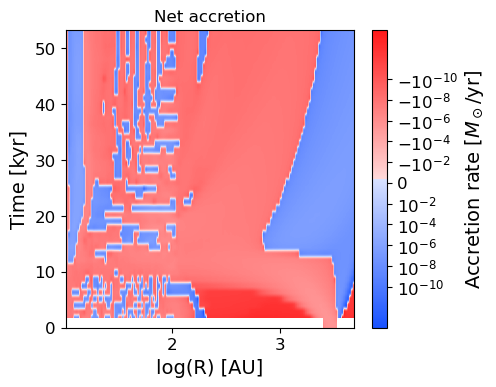
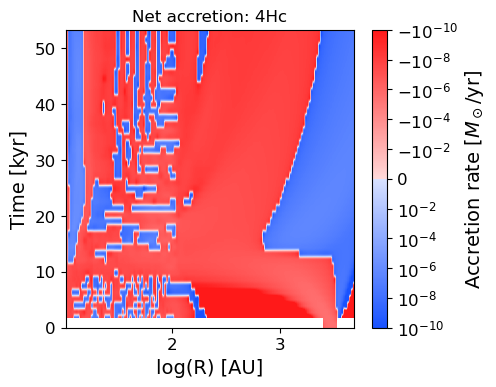
2D accretion flows at diff Hc

diff --git a/accretion.py b/accretion.py
@@ -85,6 +85,7 @@ def calc_accretion(rho, vr, theta, r0, r0_id, phi, max_height, Msun, min_height=
     phi:          1D array of azimuthal angles (shape: nphi)
     max_height:   Maximum height within which we calculate accretion [cm]
     Msun:         Mass of the Sun [g]
+    min_height:   Minimum height beeyond which we calculate accretion [cm]
 
     Outputs:
     -------
@@ -99,12 +100,12 @@ def calc_accretion(rho, vr, theta, r0, r0_id, phi, max_height, Msun, min_height=
     if min_height == None:
         theta_mask = np.abs(z) <= max_height
         theta_sel = theta[theta_mask]
-        print(np.round(np.degrees(theta_sel), 1))
+        # print(np.round(np.degrees(theta_sel), 1))
 
     elif min_height != None:
         theta_mask = (np.abs(z) >= min_height) & (np.abs(z) <= max_height)
         theta_sel = theta[theta_mask]   
-        print(np.round(np.degrees(theta_sel), 1))
+        # print(np.round(np.degrees(theta_sel), 1))
     
     dtheta_sel = np.gradient(theta_sel)
     dphi = np.gradient(phi)
@@ -147,9 +148,9 @@ def calc_accretion_theoretical(sigma, H, ok, alpha):
 def main():
 
 
-    folder = Path("../cloud_disk_it450_retro_rotX45/")                    # Folder with the output files
-    # folder = Path("../fargo3d/outputs/cloud_disk_it450_retro_rotX45")       # Folder with the output files (BinAC2)
-    fig_imgs = Path("cloud_disk_it450_retro_rotX45/imgs/")                  # Folder to save images
+    folder = Path("../cloud_disk_it450_rotX45/")                    # Folder with the output files
+    # folder = Path("../fargo3d/outputs/cloud_disk_it450_rotX45")       # Folder with the output files (BinAC2)
+    fig_imgs = Path("cloud_disk_it450_rotX45/imgs/")                  # Folder to save images
     it = 450                                                             # FARGO snapshot of interest
     sim_name = str(fig_imgs).split('/')[0]                               # Simulation name (for plot labels)
 
@@ -219,16 +220,16 @@ def main():
     dotM_out_allit = np.asarray(dotM_out_allit)
 
     # Plotting the logarithmic mass fluxes 
-    fig, ax = plt.subplots()
-    # plt.plot(allit_years, np.abs(dotM_tot_allit), label="Total flux")
-    plt.plot(allit_years, np.log10(-dotM_in_allit), label="Log Inward flux")
-    plt.plot(allit_years, dotM_out_allit, label="Outward flux")
-    ax.set_xlabel(r"Time [kyr]")
-    ax.set_ylabel(r"$\mathrm{\log\dot{M}}$ [$M_{sun}$/yr]")
-    ax.set_title(fr"{sim_name}: $\mathrm{{\log\dot{{M}}}}$ vs t (R = 10 AU)")
-    plt.legend(loc="lower right")
-    plt.savefig(f'{fig_imgs}/logMdot_vs_t_it{it}.png')
-    plt.show()
+    # fig, ax = plt.subplots()
+    # # plt.plot(allit_years, np.abs(dotM_tot_allit), label="Total flux")
+    # plt.plot(allit_years, np.log10(-dotM_in_allit), label="Log Inward flux")
+    # plt.plot(allit_years, dotM_out_allit, label="Outward flux")
+    # ax.set_xlabel(r"Time [kyr]")
+    # ax.set_ylabel(r"$\mathrm{\log\dot{M}}$ [$M_{sun}$/yr]")
+    # ax.set_title(fr"{sim_name}: $\mathrm{{\log\dot{{M}}}}$ vs t (R = 10 AU)")
+    # plt.legend(loc="lower right")
+    # plt.savefig(f'{fig_imgs}/logMdot_vs_t_it{it}.png')
+    # plt.show()
 
 
     ########################### Check accretion for different max heights #############################
@@ -292,7 +293,7 @@ def main():
     # fig.tight_layout()
     # ax.legend(loc="lower right")   # loc='upper left', 
     # plt.savefig(f'{fig_imgs}/logMoutdot_vs_t_all_zmax.png')
-    plt.show()
+    # plt.show()
 
 
     ################################# Compare theoretical and actual mass accretion ###################################
@@ -697,7 +698,31 @@ def main():
             Mdot_out_2D[i, j] = dotM_out
             Mdot_net_2D[i, j] = dotM_net
 
-    # Plotting heat maps of the 2D accretion values
+
+    # Plotting just the net accretion as a 2D contour plot
+    fig, ax = plt.subplots(1, 1, figsize=(5,4))
+    c3 = ax.imshow(np.sign(Mdot_net_2D) * np.log10(np.abs(Mdot_net_2D)), extent=[np.log10(domains["r"].min()/au), np.log10(domains["r"].max()/au), allit_years.min(), allit_years.max()], origin="lower", cmap=cmaps.BlueRed, aspect='auto', vmin=-10, vmax=10)
+    cbar = fig.colorbar(c3, ax=ax)
+    #Adjusting colorbar tick labels
+    exponents = np.arange(-10, -1, 2)   
+    ticks = np.concatenate([-exponents[::-1], [0], exponents])
+    # print(ticks)
+    ticklabels = (
+        [fr"$-10^{{{exp}}}$" for exp in exponents[::-1]] +
+        ["0"] +
+        [fr"$10^{{{exp}}}$" for exp in exponents]
+    )
+    cbar.set_ticks(ticks)
+    cbar.set_ticklabels(ticklabels)
+    cbar.set_label(r"Accretion rate [$M_\odot/\mathrm{yr}$]")
+    ax.set_title(f"Net accretion: {int(zmax_j/Hc_j)}Hc")
+    ax.set_xlabel("log(R) [AU]")
+    ax.set_ylabel("Time [kyr]")
+    fig.tight_layout()
+    plt.savefig(f'{fig_imgs}/logMnetdot_2D.png', bbox_inches="tight")
+    plt.show()
+
+    # Plotting heat maps of the 2D accretion values for inward, outward and net accretion 
     # fig, (ax1, ax2, ax3) = plt.subplots(3, 1, figsize=(5,7), sharex=True)
 
     # c1 = ax1.imshow(np.log10(-Mdot_in_2D), extent=[np.log10(domains["r"].min()/au), np.log10(domains["r"].max()/au), allit_years.min(), allit_years.max()], origin="lower", cmap=cmaps.matter, aspect='auto', vmin=-17.5, vmax=-5)
@@ -729,27 +754,6 @@ def main():
     # plt.savefig(f'{fig_imgs}/logMdot_2D.png', bbox_inches="tight")
     # plt.show()
 
-    fig, ax = plt.subplots(1, 1, figsize=(5,4))
-    c3 = ax.imshow(np.sign(Mdot_net_2D) * np.log10(np.abs(Mdot_net_2D)), extent=[np.log10(domains["r"].min()/au), np.log10(domains["r"].max()/au), allit_years.min(), allit_years.max()], origin="lower", cmap=cmaps.BlueRed, aspect='auto', vmin=-10, vmax=10)
-    cbar = fig.colorbar(c3, ax=ax)
-    #Adjusting colorbar tick labels
-    exponents = np.arange(-10, -1, 2)   
-    ticks = np.concatenate([-exponents[::-1], [0], exponents])
-    print(ticks)
-    ticklabels = (
-        [fr"$-10^{{{exp}}}$" for exp in exponents[::-1]] +
-        ["0"] +
-        [fr"$10^{{{exp}}}$" for exp in exponents]
-    )
-    cbar.set_ticks(ticks)
-    cbar.set_ticklabels(ticklabels)
-    cbar.set_label(r"Accretion rate [$M_\odot/\mathrm{yr}$]")
-    ax.set_title("Net accretion")
-    ax.set_xlabel("log(R) [AU]")
-    ax.set_ylabel("Time [kyr]")
-    fig.tight_layout()
-    plt.savefig(f'{fig_imgs}/logMnetdot_2D.png', bbox_inches="tight")
-    plt.show()
 
     ####################### Compare Mdot for different no disk inclinations ########################
 

diff --git a/no_thoughts_just_plots.py b/no_thoughts_just_plots.py
@@ -9,6 +9,7 @@ from matplotlib.colors import Normalize
 import xml.etree.ElementTree as ET
 import matplotlib.colors as mcolors
 from scipy.interpolate import griddata
+import colormaps as cmaps
 #from matplotlib.ticker import LinearLocator
 from mpl_toolkits.axes_grid1 import make_axes_locatable
 from scipy.interpolate import RegularGridInterpolator
@@ -53,6 +54,66 @@ def cyl_2D_plot(data, RCYL, ZCYL, irad, iphi, title, colorbarlabel, savefig, fig
     plt.ylim(-1,1)
     plt.title(title)
     plt.colorbar(label = colorbarlabel)
+
+    # Save the figure?
+    if savefig:
+        plt.savefig(figfolder)
+
+    # Display the figure?
+    if showfig:
+        plt.show()
+    else:
+        plt.close()
+
+
+def vel_cyl_2D(vel, RCYL, ZCYL, irad, iphi, title, colorbarlabel, savefig, figfolder, showfig, data_phiavg=True):
+    """
+    Plot 2D vertical projection of a physical quantity at a particular azimuth angle and range of radii
+    
+    Inputs:
+    ------
+    data:            3D array of physical quantity
+    RCYL, ZCYL:      2D mesh of cylindrical coordinates' R and Z values
+    irad:            Index of final radius to be plotted (int)
+    iphi:            Index of azimuth angle to be plotted
+    title:           Plot title (str)
+    colorbarlabel:   Colour bar label
+    savefig:         if True, image is saved (bool)
+    figfolder:       Path where the image is to be saved (path) 
+    data_phiavg:     True if data is azimuthally averaged (bool) (default=True)
+    
+    Outputs:
+    -------
+    plot
+    """
+
+    fig, ax = plt.subplots(1, 1, figsize=(8,6))
+    if data_phiavg:
+        # np.sign(vel[...,:irad]) * np.log10(vel[...,:irad])
+        c3 = plt.pcolormesh(RCYL[..., :irad, iphi]/au, ZCYL[..., :irad, iphi]/RCYL[..., :irad, iphi], vel[...,:irad], cmap=cmaps.BlueRed)#, vmin=-11, vmax=11, rasterized=True)
+    else:
+        # np.sign(vel[...,:irad, iphi]) * np.log10(vel[...,:irad, iphi])
+        c3 = plt.pcolormesh(RCYL[..., :irad, iphi]/au, ZCYL[..., :irad, iphi]/RCYL[..., :irad, iphi], vel[...,:irad, iphi], cmap=cmaps.BlueRed) #, vmin=-11, vmax=11, rasterized=True)
+
+    cbar = fig.colorbar(c3, ax=ax)
+    #Adjusting colorbar tick labels
+    # exponents = np.arange(-10, -1, 2)   
+    # ticks = np.concatenate([-exponents[::-1], [0], exponents])
+    # # print(ticks)
+    # ticklabels = (
+    #     [fr"$-10^{{{exp}}}$" for exp in exponents[::-1]] +
+    #     ["0"] +
+    #     [fr"$10^{{{exp}}}$" for exp in exponents]
+    # )
+    # cbar.set_ticks(ticks)
+    # cbar.set_ticklabels(ticklabels)
+    cbar.set_label(colorbarlabel)
+    plt.xlabel("rcyl / AU")
+    plt.ylabel("z / r")
+    plt.xscale("log")
+    plt.ylim(-1,1)
+    plt.title(title)
+    plt.tight_layout()
 
     # Save the figure?
     if savefig:

diff --git a/analysis.py b/analysis.py
@@ -4,7 +4,7 @@ import numpy as np
 from pathlib import Path
 from read import get_domain_spherical, get_data, load_par_file, get_param_value
 import matplotlib.pyplot as plt
-from no_thoughts_just_plots import quiver_plot_3d, contours_3D, plot_surf_dens, plot_twist_arrows, plot_total_disks_bonanza, cyl_2D_plot, XY_2D_plot, velocity_streamlines, plotly_quiver3D
+from no_thoughts_just_plots import quiver_plot_3d, contours_3D, plot_surf_dens, plot_twist_arrows, plot_total_disks_bonanza, cyl_2D_plot, XY_2D_plot, velocity_streamlines, plotly_quiver3D, vel_cyl_2D
 import astropy.constants as c
 import pandas as pd
 # import pyvista as pv 
@@ -633,7 +633,7 @@ def main():
 
     # 2D visualizations
     # irad = -1
-    irad = np.where(domains["r"]/au < 150)[0][-1]
+    irad = np.where(domains["r"]/au < 1500)[0][-1]
     iphi = 0
     itheta = int(7*len(domains["theta"])/15)
     # print(itheta)
@@ -646,7 +646,11 @@ def main():
     # cyl_2D_plot(rho_phiavg, RCYL, ZCYL, irad, iphi, title=rf'{sim_name}: $\phi$ Averaged Density R-Z Plane', colorbarlabel=r"$\rho (g/cm^{3})$", savefig=True, figfolder=f'{fig_imgs}/dens_phiavg_cyl_phi{iphi}_rad{irad}_it{it}.png', showfig=True, data_phiavg=True)
 
     # Density RZ plot
-    # cyl_2D_plot(rho, RCYL, ZCYL, irad, iphi, title=rf'{sim_name}: Density R-Z Plane $\phi$ = {np.round(np.degrees(domains["phi"][iphi]), 2)}$^{{\circ}}$', colorbarlabel=r"$\rho (g/cm^{3})$", savefig=True, figfolder=f'{fig_imgs}/dens_cyl_phi{iphi}_rad{irad}_it{it}.png', showfig=True, data_phiavg=False)
+    cyl_2D_plot(rho, RCYL, ZCYL, irad, iphi, title=rf'{sim_name}: Density R-Z Plane $\phi$ = {np.round(np.degrees(domains["phi"][iphi]), 2)}$^{{\circ}}$', colorbarlabel=r"$\rho (g/cm^{3})$", savefig=True, figfolder=f'{fig_imgs}/dens_cyl_phi{iphi}_rad{irad}_it{it}.png', showfig=True, data_phiavg=False)
+
+
+    # Velocities RZ plot
+    vel_cyl_2D(vrad, RCYL, ZCYL, irad, iphi, title=rf'{sim_name}: Radial Velocities R-Z Plane $\phi$ = {np.round(np.degrees(domains["phi"][iphi]), 2)}$^{{\circ}}$', colorbarlabel=r"$v_{rad} (cm/s)$", savefig=True, figfolder=f'{fig_imgs}/radvel_cyl_phi{iphi}_rad{irad}_it{it}.png', showfig=True, data_phiavg=False)
 
     # XY_2D_plot(rho, X, Y, irad, itheta, title=rf'{sim_name}: Density X-Y Plane $\theta = $ {itheta_deg}$^{{\circ}}$', colorbarlabel=r"$\log(\rho)$", savefig=True, figfolder=f'{fig_imgs}/dens_xy_theta{itheta}_rad{irad}_it{it}.png', showfig=True)
 
